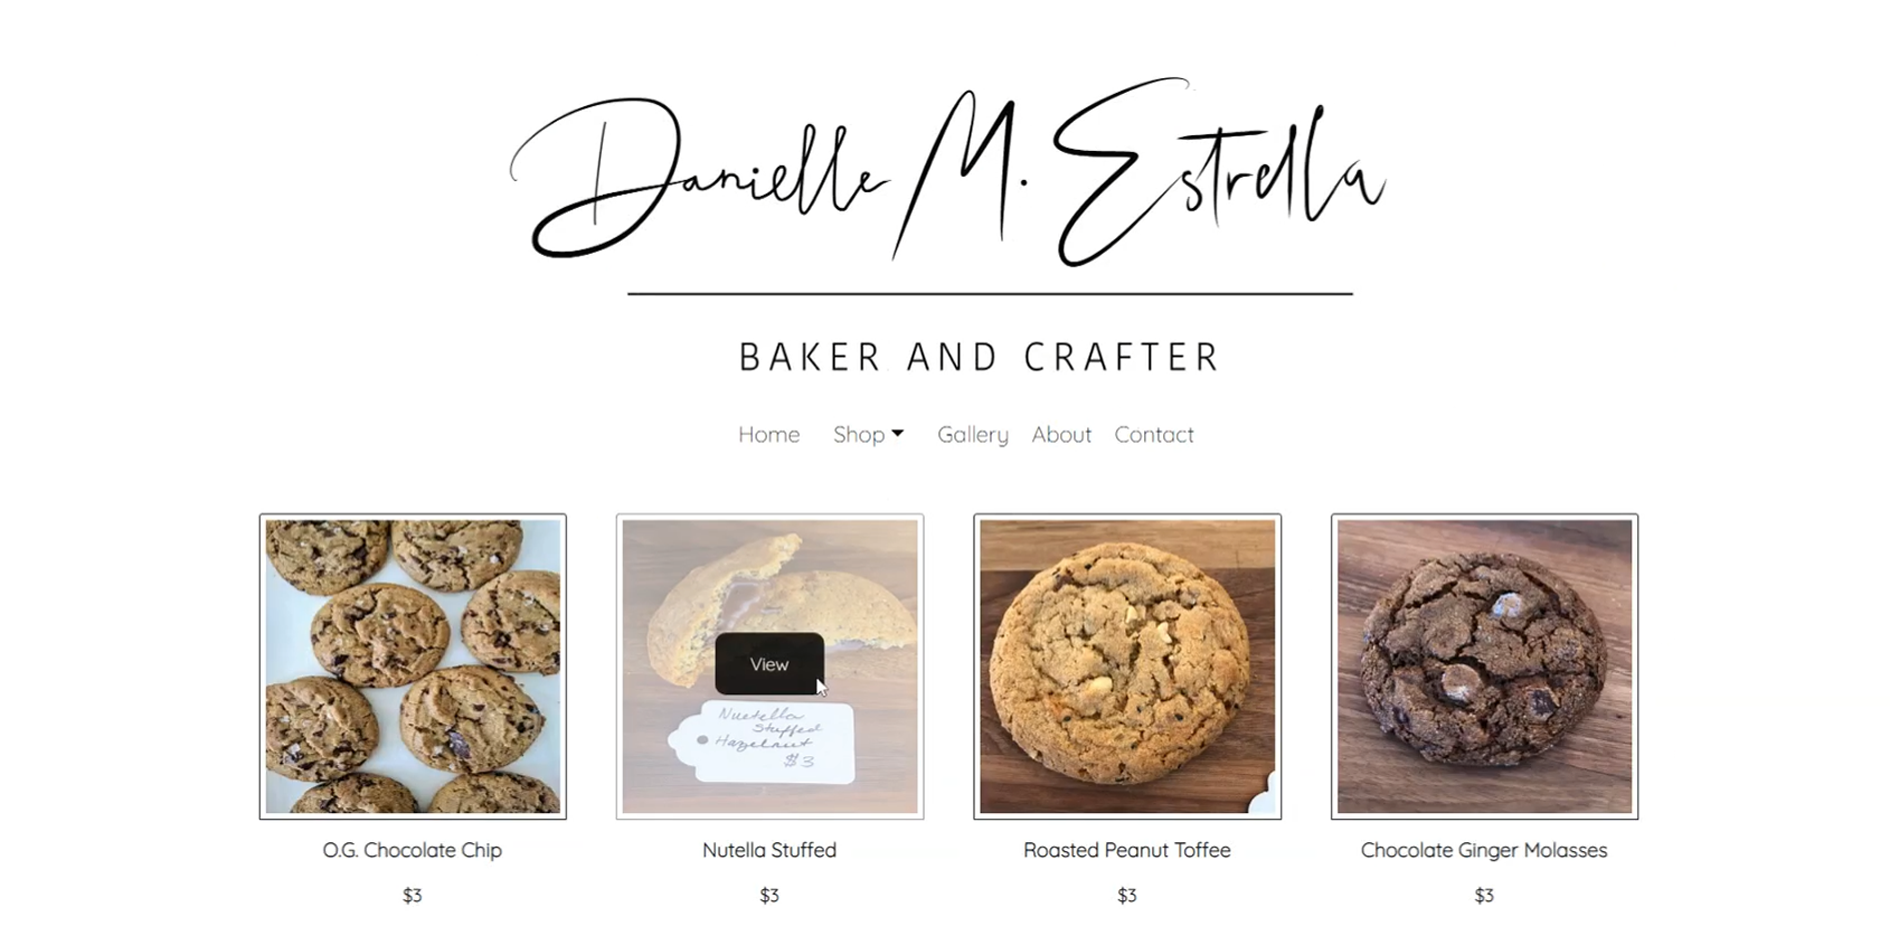
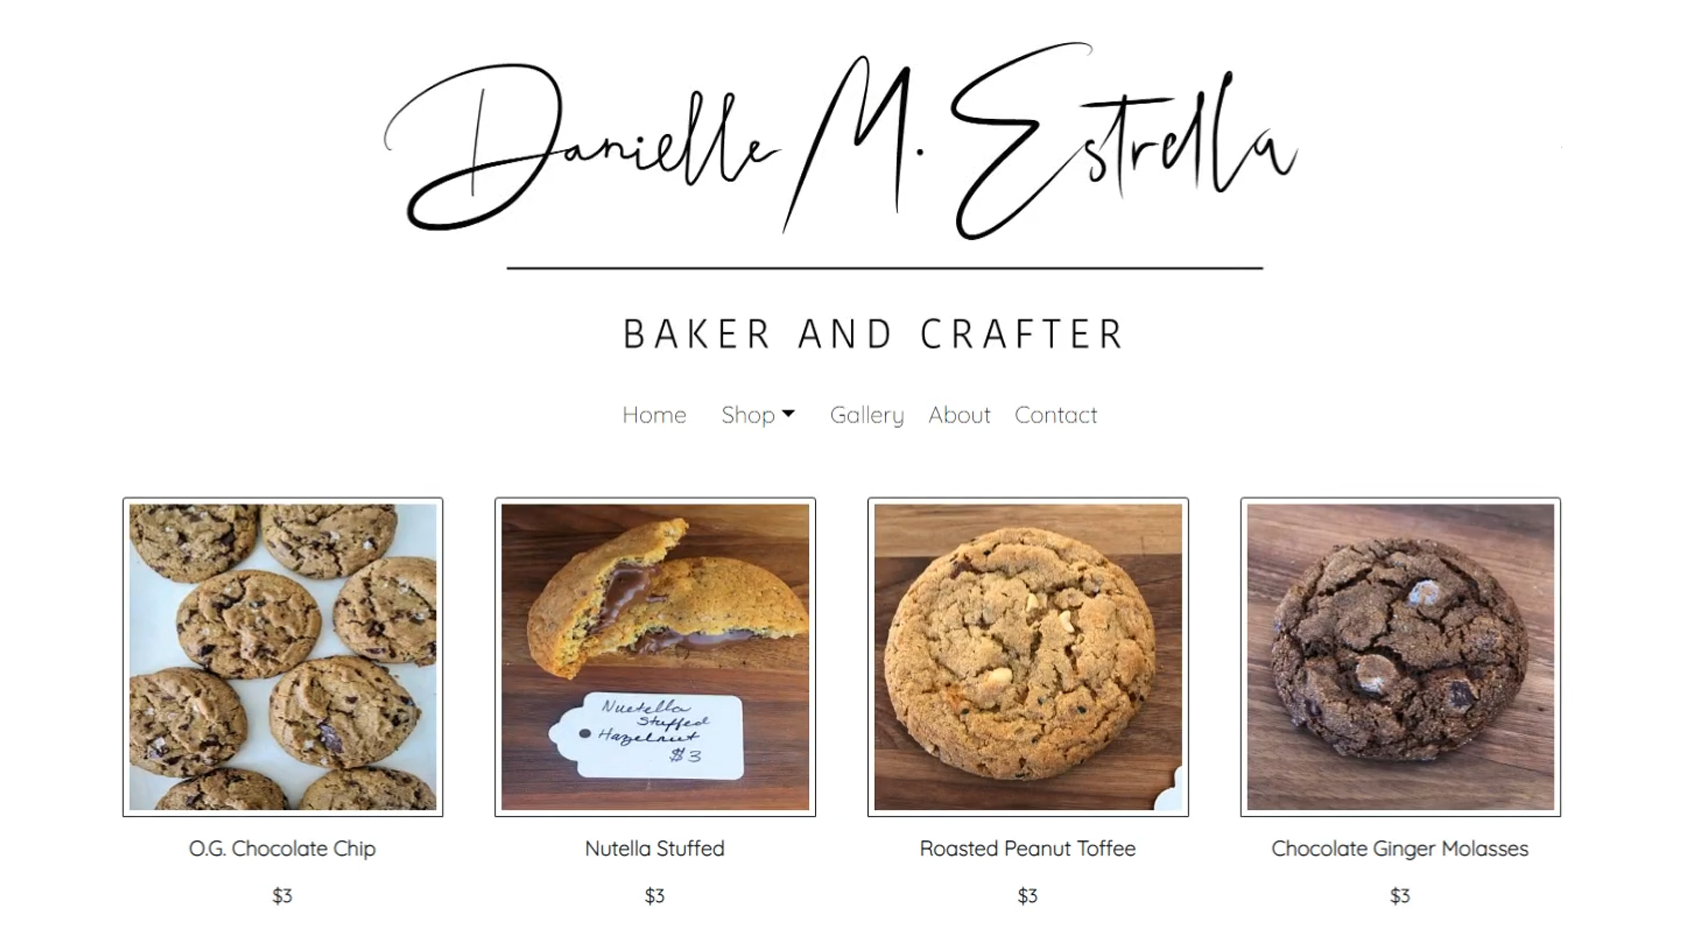
added header and turned 2:1 pngs to 4:3 pngs

diff --git a/client/public/css/style.min.css b/client/public/css/style.min.css
@@ -1,1 +1,1 @@
-.has-primary-bg-color{background-color:#b9faf8}.has-primary-color{color:#b9faf8}.has-primary-outline{border:2px solid #b9faf8;color:#b9faf8}.has-secondary-bg-color{background-color:#b8d0eb}.has-secondary-color{color:#b8d0eb}.has-secondary-outline{border:2px solid #b8d0eb;color:#b8d0eb}.has-tertiary-bg-color{background-color:#0ecaf0}.has-tertiary-color{color:#0ecaf0}.has-tertiary-outline{border:2px solid #0ecaf0;color:#0ecaf0}.has-light-bg-color{background-color:#fff}.has-light-color{color:#fff}.has-light-outline{border:2px solid #fff;color:#fff}.has-dark-bg-color{background-color:#201a2c}.has-dark-color{color:#201a2c}.has-dark-outline{border:2px solid #201a2c;color:#201a2c}.has-black-bg-color{background-color:black}.has-black-color{color:black}.has-black-outline{border:2px solid black;color:black}.border-radius{border-radius:15px}@font-face{font-family:'Quicksand';font-style:normal;font-weight:400;font-display:swap;src:url(https://fonts.gstatic.com/s/quicksand/v24/6xK-dSZaM9iE8KbpRA_LJ3z8mH9BOJvgkP8o58m-wi40.woff2) format("woff2");unicode-range:U+0102-0103,U+0110-0111,U+0128-0129,U+0168-0169,U+01A0-01A1,U+01AF-01B0,U+1EA0-1EF9,U+20AB}@font-face{font-family:'Quicksand';font-style:normal;font-weight:400;font-display:swap;src:url(https://fonts.gstatic.com/s/quicksand/v24/6xK-dSZaM9iE8KbpRA_LJ3z8mH9BOJvgkP8o58i-wi40.woff2) format("woff2");unicode-range:U+0100-024F,U+0259,U+1E00-1EFF,U+2020,U+20A0-20AB,U+20AD-20CF,U+2113,U+2C60-2C7F,U+A720-A7FF}@font-face{font-family:'Quicksand';font-style:normal;font-weight:400;font-display:swap;src:url(https://fonts.gstatic.com/s/quicksand/v24/6xK-dSZaM9iE8KbpRA_LJ3z8mH9BOJvgkP8o58a-wg.woff2) format("woff2");unicode-range:U+0000-00FF,U+0131,U+0152-0153,U+02BB-02BC,U+02C6,U+02DA,U+02DC,U+2000-206F,U+2074,U+20AC,U+2122,U+2191,U+2193,U+2212,U+2215,U+FEFF,U+FFFD}html{scroll-behavior:smooth}body{position:relative;font-family:"Quicksand",sans-serif;background-color:#201a2c;color:#fff;margin:0;padding:0;overflow-x:hidden;font-size:16px}h1,h2,h3,h4,h5,h6{font-weight:400;line-height:1.5}img{display:block}figure{margin:0;padding:0}body{max-width:1400px;margin:0 auto}main .about-me .card{position:-webkit-sticky;position:sticky;top:1rem}main .card{background-color:#201a2c;margin:0 auto}.has-two-col{display:grid;grid-template-columns:repeat(2,1fr);gap:1rem}.featured{grid-column:1 / -1}.text-center{text-align:center}#btn-grid{display:grid;grid-template-columns:1fr 1fr}img{width:100%;height:auto}.projects{margin:1rem 0}.projects a{text-decoration:none;color:#fff}.projects section{margin:auto 0}.projects h2{margin-top:0;margin-bottom:.5rem}.projects figure{overflow:hidden;position:relative}.projects figure img{transition:-webkit-transform .3s;transition:transform .3s;transition:transform .3s,-webkit-transform .3s}.projects figure img:hover{-webkit-transform:scale(1.03) translateY(0);transform:scale(1.03) translateY(0);cursor:pointer}.btn-group{display:grid;text-decoration:none;gap:1rem}.btn-group .btn{display:inline-block;margin:0;padding:1rem 1rem;border:0;border-radius:15px;text-decoration:none;cursor:pointer;font-weight:400;font-size:1rem;text-overflow:ellipsis;text-align:center;letter-spacing:.05em}.btn-group .btn.align-left{margin-right:auto}.btn-group .btn.align-center{margin-left:auto;margin-right:auto}.btn-group .btn.align-right{margin-left:auto}.btn-group .btn.has-primary-text{color:#b9faf8}.btn-group .btn.has-primary-bg-color{background-color:#b9faf8}.btn-group .btn.has-primary-bg-color:hover{background-color:#5af3ee}.btn-group .btn.has-primary-outline-color{border:2px solid #b9faf8;color:#b9faf8}.btn-group .btn.has-primary-outline-color:hover{border:2px solid #0ecaf0}.btn-group .btn.has-secondary-text{color:#b8d0eb}.btn-group .btn.has-secondary-bg-color{background-color:#b8d0eb}.btn-group .btn.has-secondary-bg-color:hover{background-color:#689bd5}.btn-group .btn.has-secondary-outline-color{border:2px solid #b8d0eb;color:#b8d0eb}.btn-group .btn.has-secondary-outline-color:hover{border:2px solid #0ecaf0}.btn-group .btn.has-tertiary-text{color:#0ecaf0}.btn-group .btn.has-tertiary-bg-color{background-color:#0ecaf0}.btn-group .btn.has-tertiary-bg-color:hover{background-color:#087990}.btn-group .btn.has-tertiary-outline-color{border:2px solid #0ecaf0;color:#0ecaf0}.btn-group .btn.has-tertiary-outline-color:hover{border:2px solid #0ecaf0}.btn-group .btn.has-light-text{color:#fff}.btn-group .btn.has-light-bg-color{background-color:#fff}.btn-group .btn.has-light-bg-color:hover{background-color:#ccc}.btn-group .btn.has-light-outline-color{border:2px solid #fff;color:#fff}.btn-group .btn.has-light-outline-color:hover{border:2px solid #0ecaf0}.btn-group .btn.has-dark-text{color:#201a2c}.btn-group .btn.has-dark-bg-color{background-color:#201a2c}.btn-group .btn.has-dark-bg-color:hover{background-color:black}.btn-group .btn.has-dark-outline-color{border:2px solid #201a2c;color:#201a2c}.btn-group .btn.has-dark-outline-color:hover{border:2px solid #0ecaf0}.btn-group .btn.has-black-text{color:black}.btn-group .btn.has-black-bg-color{background-color:black}.btn-group .btn.has-black-bg-color:hover{background-color:black}.btn-group .btn.has-black-outline-color{border:2px solid black;color:black}.btn-group .btn.has-black-outline-color:hover{border:2px solid #0ecaf0}@media(max-width:768px){body{font-size:14px}.has-two-col{grid-template-columns:1fr}.btn-group .btn.align-right,.btn-group .btn.align-left{margin-left:auto;margin-right:auto}}@media(max-width:375px){body{font-size:12px}}
+.has-primary-bg-color{background-color:#b9faf8}.has-primary-color{color:#b9faf8}.has-primary-outline{border:2px solid #b9faf8;color:#b9faf8}.has-secondary-bg-color{background-color:#b8d0eb}.has-secondary-color{color:#b8d0eb}.has-secondary-outline{border:2px solid #b8d0eb;color:#b8d0eb}.has-tertiary-bg-color{background-color:#0ecaf0}.has-tertiary-color{color:#0ecaf0}.has-tertiary-outline{border:2px solid #0ecaf0;color:#0ecaf0}.has-light-bg-color{background-color:#fff}.has-light-color{color:#fff}.has-light-outline{border:2px solid #fff;color:#fff}.has-dark-bg-color{background-color:#2e3653}.has-dark-color{color:#2e3653}.has-dark-outline{border:2px solid #2e3653;color:#2e3653}.has-black-bg-color{background-color:black}.has-black-color{color:black}.has-black-outline{border:2px solid black;color:black}.border-radius{border-radius:15px}@font-face{font-family:'Quicksand';font-style:normal;font-weight:400;font-display:swap;src:url(https://fonts.gstatic.com/s/quicksand/v24/6xK-dSZaM9iE8KbpRA_LJ3z8mH9BOJvgkP8o58m-wi40.woff2) format("woff2");unicode-range:U+0102-0103,U+0110-0111,U+0128-0129,U+0168-0169,U+01A0-01A1,U+01AF-01B0,U+1EA0-1EF9,U+20AB}@font-face{font-family:'Quicksand';font-style:normal;font-weight:400;font-display:swap;src:url(https://fonts.gstatic.com/s/quicksand/v24/6xK-dSZaM9iE8KbpRA_LJ3z8mH9BOJvgkP8o58i-wi40.woff2) format("woff2");unicode-range:U+0100-024F,U+0259,U+1E00-1EFF,U+2020,U+20A0-20AB,U+20AD-20CF,U+2113,U+2C60-2C7F,U+A720-A7FF}@font-face{font-family:'Quicksand';font-style:normal;font-weight:400;font-display:swap;src:url(https://fonts.gstatic.com/s/quicksand/v24/6xK-dSZaM9iE8KbpRA_LJ3z8mH9BOJvgkP8o58a-wg.woff2) format("woff2");unicode-range:U+0000-00FF,U+0131,U+0152-0153,U+02BB-02BC,U+02C6,U+02DA,U+02DC,U+2000-206F,U+2074,U+20AC,U+2122,U+2191,U+2193,U+2212,U+2215,U+FEFF,U+FFFD}html{scroll-behavior:smooth}body{position:relative;font-family:"Quicksand",sans-serif;background-color:#2e3653;color:#fff;margin:0;padding:0;overflow-x:hidden;font-size:16px}h1,h2,h3,h4,h5,h6{font-weight:400;line-height:1.5}img{display:block}figure{margin:0;padding:0}body{max-width:1400px;margin:0 auto}main .about-me .card{position:-webkit-sticky;position:sticky;top:1rem}main .card{background-color:#2e3653;margin:0 auto}.has-two-col{display:grid;grid-template-columns:repeat(2,1fr);gap:1rem}.featured{grid-column:1 / -1}.text-center{text-align:center}#btn-grid{display:grid;grid-template-columns:1fr 1fr}img{width:100%;height:auto}.projects{margin:1rem 0}.projects a{text-decoration:none;color:#fff}.projects section{margin:auto 0}.projects h2{margin-top:0;margin-bottom:.5rem}.projects figure{overflow:hidden;position:relative}.projects figure img{transition:-webkit-transform .3s;transition:transform .3s;transition:transform .3s,-webkit-transform .3s}.projects figure img:hover{-webkit-transform:scale(1.03) translateY(0);transform:scale(1.03) translateY(0);cursor:pointer}.btn-group{display:grid;text-decoration:none;gap:1rem}.btn-group .btn{display:inline-block;margin:0;padding:1rem 1rem;border:0;border-radius:15px;text-decoration:none;cursor:pointer;font-weight:400;font-size:1rem;text-overflow:ellipsis;text-align:center;letter-spacing:.05em}.btn-group .btn.align-left{margin-right:auto}.btn-group .btn.align-center{margin-left:auto;margin-right:auto}.btn-group .btn.align-right{margin-left:auto}.btn-group .btn.has-primary-text{color:#b9faf8}.btn-group .btn.has-primary-bg-color{background-color:#b9faf8}.btn-group .btn.has-primary-bg-color:hover{background-color:#5af3ee}.btn-group .btn.has-primary-outline-color{border:2px solid #b9faf8;color:#b9faf8}.btn-group .btn.has-primary-outline-color:hover{border:2px solid #0ecaf0}.btn-group .btn.has-secondary-text{color:#b8d0eb}.btn-group .btn.has-secondary-bg-color{background-color:#b8d0eb}.btn-group .btn.has-secondary-bg-color:hover{background-color:#689bd5}.btn-group .btn.has-secondary-outline-color{border:2px solid #b8d0eb;color:#b8d0eb}.btn-group .btn.has-secondary-outline-color:hover{border:2px solid #0ecaf0}.btn-group .btn.has-tertiary-text{color:#0ecaf0}.btn-group .btn.has-tertiary-bg-color{background-color:#0ecaf0}.btn-group .btn.has-tertiary-bg-color:hover{background-color:#087990}.btn-group .btn.has-tertiary-outline-color{border:2px solid #0ecaf0;color:#0ecaf0}.btn-group .btn.has-tertiary-outline-color:hover{border:2px solid #0ecaf0}.btn-group .btn.has-light-text{color:#fff}.btn-group .btn.has-light-bg-color{background-color:#fff}.btn-group .btn.has-light-bg-color:hover{background-color:#ccc}.btn-group .btn.has-light-outline-color{border:2px solid #fff;color:#fff}.btn-group .btn.has-light-outline-color:hover{border:2px solid #0ecaf0}.btn-group .btn.has-dark-text{color:#2e3653}.btn-group .btn.has-dark-bg-color{background-color:#2e3653}.btn-group .btn.has-dark-bg-color:hover{background-color:#0a0b11}.btn-group .btn.has-dark-outline-color{border:2px solid #2e3653;color:#2e3653}.btn-group .btn.has-dark-outline-color:hover{border:2px solid #0ecaf0}.btn-group .btn.has-black-text{color:black}.btn-group .btn.has-black-bg-color{background-color:black}.btn-group .btn.has-black-bg-color:hover{background-color:black}.btn-group .btn.has-black-outline-color{border:2px solid black;color:black}.btn-group .btn.has-black-outline-color:hover{border:2px solid #0ecaf0}@media(max-width:768px){body{font-size:14px}.has-two-col{grid-template-columns:1fr}.btn-group .btn.align-right,.btn-group .btn.align-left{margin-left:auto;margin-right:auto}}@media(max-width:375px){body{font-size:12px}}

diff --git a/client/src/components/header.js b/client/src/components/header.js
@@ -1,0 +1,46 @@
+import React from "react";
+import { NavLink } from "react-router-dom";
+
+// logos and nav
+function Header() {
+    return (
+        <>
+            <header>
+                <nav>
+                    <ul className="navbar">
+                        <li className="nav-logo">
+                            <a className="logo" href="/">
+                                <span>PinDrop Network</span>
+                            </a>
+                        </li>
+                    </ul>
+
+                    <ul className="navbar primary-nav">
+                        <li>
+                            <NavLink exact to="/">
+                                Home
+                            </NavLink>
+                        </li>
+                        <li>
+                            <NavLink exact activeClassName="active" to="/tech">
+                                Tech
+                            </NavLink>
+                        </li>
+                        <li>
+                            <NavLink exact activeClassName="active" to="/et/overview">
+                                ET
+                            </NavLink>
+                        </li>
+                        <li>
+                            <NavLink exact activeClassName="active" to="/about">
+                                About
+                            </NavLink>
+                        </li>
+                    </ul>
+                </nav>
+            </header>
+        </>
+    );
+}
+
+export default Header;

diff --git a/client/src/components/projectCard.js b/client/src/components/projectCard.js
@@ -10,7 +10,7 @@ function projectCard(props) {
                 <Link to={`/project/${props.url}`}>
                     <div className="card">
                         <article className="project">
-                            <h2>Project: {props.projectName}</h2>
+                            {/* <h2>Project: {props.projectName}</h2> */}
                             <figure>
                                 <ImgDB imgName={props.imgName} />
                             </figure>

diff --git a/client/src/scss/templates/_core.scss b/client/src/scss/templates/_core.scss
@@ -54,8 +54,7 @@ main {
   .card {
     background-color: map-get($color-palette, dark);
   
-    // margin: 1rem;
-    // padding: 1rem;
+    // border: 2px solid map-get($color-palette, tertiary);
     margin: 0 auto;
   }
 }

diff --git a/client/src/scss/_mixSettings.scss b/client/src/scss/_mixSettings.scss
@@ -50,7 +50,7 @@ $color-palette: (
   // primary: white,
   // secondary: black,
   light: #ffffff,
-  dark: rgb(32, 26, 44),
+  dark: #2E3653,
   black: black
 );
 
